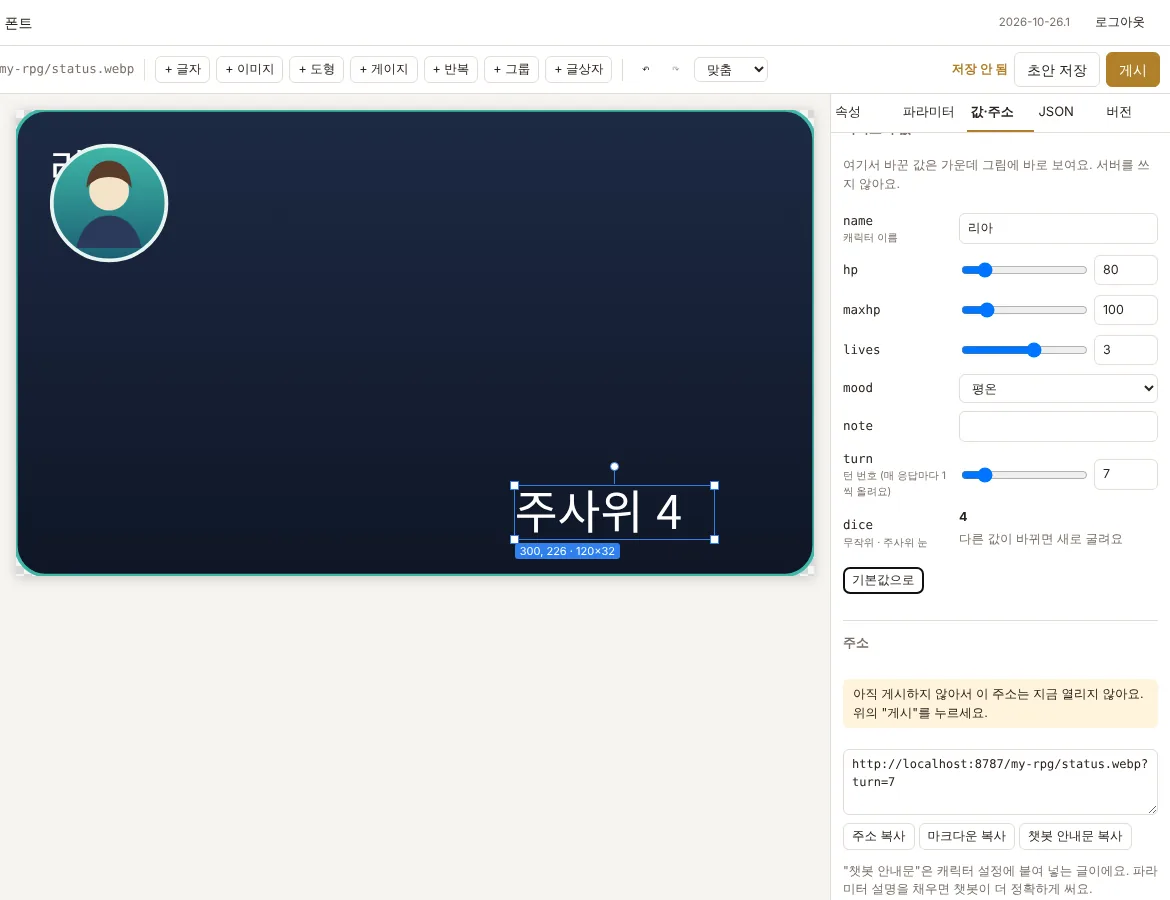
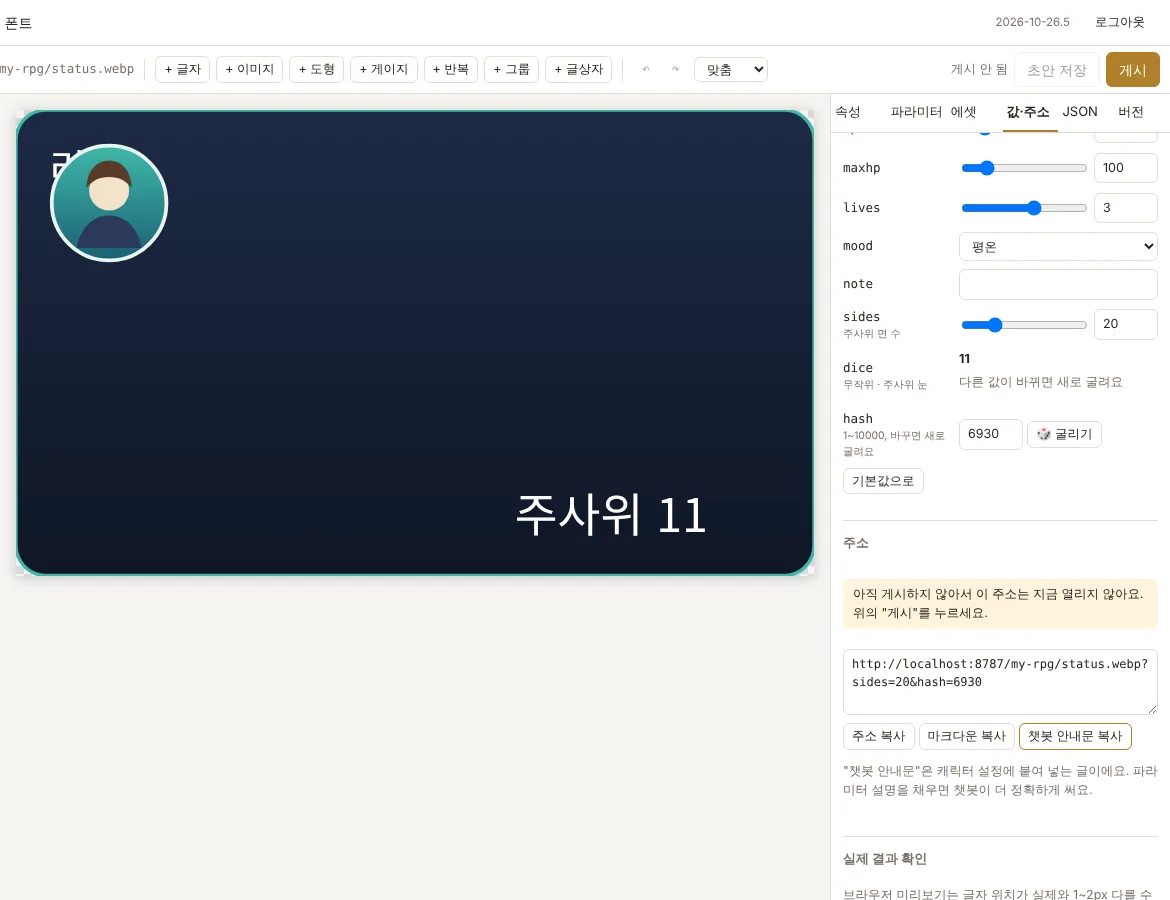
Random params: range from a number param, and an address hash for fresh rolls (#12)
- A random param's min/max may name a number param (e.g. sides=20 rolls 1..20).
- Templates with a random param take `hash=1..10000` in the address; it is
  mixed into every roll and kept in the normalized string (storage key).
  A missing or out-of-range hash is left out; other templates ignore it.
- Chatbot instructions add a `hash` line (a different number every reply);
  the 값·주소 tab gets a hash field with a 🎲 button; param rename/usage
  checks follow dice bounds.
- Tests, tutorial, admin docs and README updated.

Claude-Session: https://claude.ai/code/session_011e7i7uxX8Q6QpFWp4vtuYR

diff --git a/ui/editor/preview-panel.tsx b/ui/editor/preview-panel.tsx
@@ -1,9 +1,12 @@
 import { useState } from 'preact/hooks';
-import { normalizeParams } from '../../src/params';
+import { HASH_KEY, HASH_MAX, normalizeParams } from '../../src/params';
 import { LIMITS, type Spec } from '../../src/spec';
 import { call, copy } from '../api';
 import { defaultsOf } from '../model';
 import { Modal, fail, toast } from '../ui';
+
+/** templates with a random param also take `hash=1..10000` in the address, mixed into every roll */
+export const takesHash = (spec: Spec) => !(HASH_KEY in spec.params) && Object.values(spec.params).some((d) => d.type === 'random');
 
 /** Encode only what would break a query value; Korean stays readable for people and chatbots. */
 export const enc = (s: string) => s.replace(/[\s%&#?+=\/\\"'<>()[\]]/g, (c) => encodeURIComponent(c).replace(/[()'[\]]/g, (x) => '%' + x.charCodeAt(0).toString(16).toUpperCase()));
@@ -16,7 +19,10 @@ export function imageUrl(chat: string, slug: string, spec: Spec, values: Record<
     .filter(([k, v]) => !onlyChanged || v !== defs[k])
     .map(([k, v]) => `${k}=${enc(typeof v === 'boolean' ? (v ? '1' : '0') : String(v))}`)
     .join('&');
-  return `${location.origin}/${chat}/${slug}.webp${q ? '?' + q : ''}`;
+  const h = Math.round(Number(values[HASH_KEY]));
+  const hq = takesHash(spec) && h >= 1 && h <= HASH_MAX ? `${HASH_KEY}=${h}` : '';
+  const all = [q, hq].filter(Boolean).join('&');
+  return `${location.origin}/${chat}/${slug}.webp${all ? '?' + all : ''}`;
 }
 
 /** Chatbot instructions generated from the parameter definitions. */
@@ -36,8 +42,9 @@ export function promptSnippet(chat: string, slug: string, name: string, spec: Sp
   return [
     `[${name} 이미지]`,
     `매 답변 끝에 현재 상태를 아래 형식의 이미지 한 줄로 출력하세요. 주소는 바꾸지 말고 ? 뒤의 값만 채웁니다.`,
-    `![](${base}?${sent.map(([k]) => `${k}=값`).join('&')})`,
+    `![](${base}?${[...sent.map(([k]) => `${k}=값`), ...(takesHash(spec) ? [`${HASH_KEY}=숫자`] : [])].join('&')})`,
     ...lines,
+    ...(takesHash(spec) ? [`- ${HASH_KEY}: 1~${HASH_MAX} 사이 아무 숫자. 매 답변마다 다른 숫자를 넣으세요(주사위를 새로 굴려요). 결과는 이미지가 정하니 미리 짐작해서 쓰지 마세요.`] : []),
     `값을 모르면 그 항목은 빼도 됩니다(기본값으로 그려짐). 글자 값의 공백은 %20으로 씁니다.`,
     `예시: ![](${example})`,
   ].join('\n');
@@ -120,6 +127,20 @@ export function PreviewPanel(p: {
           <ValueInput name={k} def={d} value={p.values[k] ?? ''} onChange={(v) => p.setValues({ ...p.values, [k]: v })} />
         </label>
         ),
+      )}
+      {takesHash(p.spec) && (
+        <label class="value">
+          <span class="mono">
+            {HASH_KEY}
+            <small> 1~{HASH_MAX}, 바꾸면 새로 굴려요</small>
+          </span>
+          <span class="with-btn">
+            <input type="number" class="num" min={1} max={HASH_MAX} value={p.values[HASH_KEY] ?? ''} placeholder="없음" onInput={(e) => p.setValues({ ...p.values, [HASH_KEY]: e.currentTarget.value })} />
+            <button class="small" onClick={() => p.setValues({ ...p.values, [HASH_KEY]: String(1 + Math.floor(Math.random() * HASH_MAX)) })}>
+              🎲 굴리기
+            </button>
+          </span>
+        </label>
       )}
       <button class="small" onClick={() => p.setValues(defaultsOf(p.spec))}>
         기본값으로

diff --git a/ui/editor/params.tsx b/ui/editor/params.tsx
@@ -4,6 +4,25 @@ import { renameParam, usesParam } from '../model';
 import { NumInput } from './fields';
 
 const NAME = /^[A-Za-z_][A-Za-z0-9_]{0,31}$/;
+
+/** a dice bound: a whole number, or a number param the chatbot sends (e.g. sides=20) */
+function Bound(p: { value: number | string | undefined; fallback: number; spec: Spec; onChange: (v: number | string | undefined) => void }) {
+  const nums = Object.keys(p.spec.params).filter((k) => p.spec.params[k].type === 'number');
+  const isParam = typeof p.value === 'string';
+  return (
+    <span class="with-btn">
+      <select style={{ flex: isParam ? '1' : '0 0 8em' }} value={isParam ? String(p.value) : ''} onChange={(e) => p.onChange(e.currentTarget.value || p.fallback)}>
+        <option value="">직접 입력</option>
+        {nums.map((k) => (
+          <option key={k} value={k}>
+            파라미터 {k}
+          </option>
+        ))}
+      </select>
+      {!isParam && <NumInput value={p.value} onChange={(v) => p.onChange(v)} step={1} />}
+    </span>
+  );
+}
 const TYPE_LABEL = { text: '글자', number: '숫자', enum: '목록에서 하나', bool: '예/아니오', random: '무작위 (주사위)' } as const;
 
 /** Comma-separated list, applied when the field loses focus. Keeps what was typed across re-renders until then. */
@@ -125,13 +144,13 @@ function ParamCard(p: { name: string; def: ParamDef; spec: Spec; onSpec: (s: Spe
               </label>
             ) : (
               <>
-                <label>
+                <label class="span2">
                   최소
-                  <NumInput value={d.min} onChange={(v) => set({ min: v })} step={1} />
+                  <Bound value={d.min} fallback={1} spec={p.spec} onChange={(v) => set({ min: v })} />
                 </label>
-                <label>
+                <label class="span2">
                   최대
-                  <NumInput value={d.max} onChange={(v) => set({ max: v })} step={1} />
+                  <Bound value={d.max} fallback={6} spec={p.spec} onChange={(v) => set({ max: v })} />
                 </label>
               </>
             )}
@@ -146,7 +165,8 @@ function ParamCard(p: { name: string; def: ParamDef; spec: Spec; onSpec: (s: Spe
       </div>
       {d.type === 'random' && (
         <p class="hint">
-          챗봇이 보내는 값이 아니라 판박이가 굴려요. 주소의 다른 값으로 굴려서 같은 주소는 늘 같은 결과이고, 값이 하나라도 바뀌면 새로 굴려요. 매 턴 새로 굴리려면 턴 번호 같은 숫자 파라미터를 하나 두세요.
+          챗봇이 보내는 값이 아니라 판박이가 굴려요(주소에 이 이름으로 값을 보내도 무시해요). 주소의 다른 값으로 굴려서 같은 주소는 늘 같은 결과이고, 값이 하나라도 바뀌면 새로 굴려요.
+          챗봇 안내문에는 <code>hash</code>(1~10000)가 함께 들어가요. 챗봇이 매 답변 다른 숫자를 넣으면 매번 새로 굴려요. 최소·최대는 숫자 파라미터로 정할 수도 있어요(예: <code>sides=20</code>이면 1~20).
           글자에 <code>{'{' + p.name + '}'}</code>로 넣거나, 이미지·색의 "값에 따라"에서 골라 써요.
         </p>
       )}

diff --git a/src/params.ts b/src/params.ts
@@ -53,11 +53,18 @@ function hash32(s: string): number {
   return (t ^ (t >>> 14)) >>> 0;
 }
 
+/** The address may carry `hash=1..10000`: one more number mixed into every roll, so a chatbot can ask for a fresh roll without any other value changing. */
+export const HASH_KEY = 'hash';
+export const HASH_MAX = 10000;
+
 /** A random param's value: decided by its name and the other values, so one address always gets the same roll. */
-export function rollRandom(name: string, def: Extract<ParamDef, { type: 'random' }>, seed: string): string | number {
+export function rollRandom(name: string, def: Extract<ParamDef, { type: 'random' }>, seed: string, values: Values = {}): string | number {
   const r = hash32(name + '|' + seed);
   if (def.options?.length) return def.options[r % def.options.length];
-  const lo = Math.round(def.min ?? 1), hi = Math.max(lo, Math.round(def.max ?? 6));
+  // a bound may name a number param (already normalized in `values`)
+  const bound = (v: number | string | undefined, d: number) => Math.round(typeof v === 'string' ? Number(values[v] ?? d) || 0 : (v ?? d));
+  const lo = bound(def.min, 1);
+  const hi = Math.min(lo + 1e6, Math.max(lo, bound(def.max, 6)));
   return lo + (r % (hi - lo + 1));
 }
 
@@ -86,8 +93,15 @@ export function normalizeParams(spec: Spec, query: URLSearchParams | Record<stri
     values[k] = v;
     parts.push(`${k}=${encodeURIComponent(String(v))}`);
   }
+  const randoms = Object.entries(spec.params).filter(([, d]) => d.type === 'random');
+  // the built-in hash (unless the template has its own param by that name) only matters when something is rolled
+  if (randoms.length && !(HASH_KEY in spec.params)) {
+    const raw = entries.find(([k]) => k.toLowerCase() === HASH_KEY)?.[1];
+    const n = raw === undefined ? NaN : Math.round(Number(raw));
+    if (n >= 1 && n <= HASH_MAX) parts.push(`${HASH_KEY}=${n}`);
+  }
   const seed = parts.join('&');
-  for (const [k, def] of Object.entries(spec.params)) if (def.type === 'random') values[k] = rollRandom(k, def, seed);
+  for (const [k, def] of randoms) if (def.type === 'random') values[k] = rollRandom(k, def, seed, values);
   // the rolls follow from the other values, so the storage key needs only those
   return { values, normalized: seed };
 }

diff --git a/src/spec.ts b/src/spec.ts
@@ -19,8 +19,9 @@ export type ParamDef =
   | { type: 'number'; default?: number; min?: number; max?: number; decimals?: number; alias?: string[]; desc?: string }
   | { type: 'enum'; options: string[]; default?: string; alias?: string[]; desc?: string }
   | { type: 'bool'; default?: boolean; alias?: string[]; desc?: string }
-  // Not read from the address: rolled from the template's other values, so the same address always draws the same result.
-  | { type: 'random'; min?: number; max?: number; options?: string[]; alias?: string[]; desc?: string };
+  // Not read from the address: rolled from the template's other values (and the address's `hash`), so the same address always draws the same result.
+  // min/max may name a number param, so the chatbot can set the range (e.g. a d20) without choosing the roll.
+  | { type: 'random'; min?: number | string; max?: number | string; options?: string[]; alias?: string[]; desc?: string };
 // `desc` (and an element's `name`) are only for people: the admin UI shows them and puts `desc` in the chatbot prompt.
 
 export interface Base {
@@ -139,7 +140,10 @@ export function validateSpec(spec: any): string[] {
       if (d?.type === 'random' && d.options !== undefined && (!Array.isArray(d.options) || !d.options.length)) errs.push(`param "${k}": random options must be a non-empty list`);
       if (d?.type === 'random' && d.options === undefined) {
         const lo = d.min ?? 1, hi = d.max ?? 6;
-        if (!Number.isInteger(lo) || !Number.isInteger(hi) || lo > hi || hi - lo > 1e6) errs.push(`param "${k}": random needs whole numbers min <= max`);
+        const ref = (v: unknown) => typeof v === 'string' && spec.params[v]?.type === 'number';
+        if (typeof lo === 'string' || typeof hi === 'string') {
+          if ((typeof lo === 'string' && !ref(lo)) || (typeof hi === 'string' && !ref(hi))) errs.push(`param "${k}": random min/max must be a number or a number param`);
+        } else if (!Number.isInteger(lo) || !Number.isInteger(hi) || lo > hi || hi - lo > 1e6) errs.push(`param "${k}": random needs whole numbers min <= max`);
       }
     }
   }

diff --git a/test/engine.test.ts b/test/engine.test.ts
@@ -43,6 +43,32 @@ describe('normalizeParams', () => {
     expect(validateSpec(spec)).toEqual([]);
     expect(validateSpec({ ...spec, params: { d: { type: 'random', min: 6, max: 1 } } })).not.toEqual([]);
   });
+  it('random range can come from a number param, and hash=1..10000 mixes into the roll', () => {
+    const spec: Spec = {
+      canvas: { w: 10, h: 10 },
+      params: { sides: { type: 'number', default: 6, min: 2, max: 100 }, dice: { type: 'random', min: 1, max: 'sides' } },
+      elements: [],
+    };
+    expect(validateSpec(spec)).toEqual([]);
+    expect(validateSpec({ ...spec, params: { dice: { type: 'random', max: 'nope' } } })).not.toEqual([]);
+    const seen = new Set<number>();
+    for (let h = 1; h <= 400; h++) {
+      const r = normalizeParams(spec, { sides: '20', hash: String(h) });
+      expect(r.normalized).toBe(`sides=20&hash=${h}`);
+      const d = r.values.dice as number;
+      expect(d).toBeGreaterThanOrEqual(1);
+      expect(d).toBeLessThanOrEqual(20);
+      seen.add(d);
+    }
+    expect(seen.size).toBe(20);
+    // same address, same roll; a bad hash is left out like a missing one
+    expect(normalizeParams(spec, { hash: '77' }).values).toEqual(normalizeParams(spec, { hash: '77' }).values);
+    expect(normalizeParams(spec, { hash: '0' }).normalized).toBe('sides=6');
+    expect(normalizeParams(spec, { hash: '10001' }).normalized).toBe('sides=6');
+    // templates without random params ignore it (the stored image stays the same)
+    const plain: Spec = { canvas: { w: 10, h: 10 }, params: { a: { type: 'number' } }, elements: [] };
+    expect(normalizeParams(plain, { a: '1', hash: '5' }).normalized).toBe('a=1');
+  });
   it('random values drive any element: picked colors, ranges, conditions, gauges, repeats', () => {
     const spec: Spec = {
       canvas: { w: 100, h: 100 },

diff --git a/ui/model.ts b/ui/model.ts
@@ -246,7 +246,11 @@ export function parentOffset(spec: Spec, path: Path): { x: number; y: number } {
 export function renameParam(spec: Spec, from: string, to: string): Spec {
   const s = clone(spec);
   const params: any = {};
-  for (const [k, v] of Object.entries(s.params)) params[k === from ? to : k] = v;
+  for (const [k, v] of Object.entries(s.params)) {
+    // a dice bound can name a number param
+    if (v.type === 'random') for (const b of ['min', 'max'] as const) if (v[b] === from) v[b] = to;
+    params[k === from ? to : k] = v;
+  }
   s.params = params;
   const re = new RegExp(`\\{(\\s*)${from.replace(/[.*+?^${}()|[\]\\]/g, '\\$&')}(\\s*)(?=[|}])`, 'g');
   const fix = (v: any, key?: string): any => {
@@ -270,7 +274,8 @@ export function renameParam(spec: Spec, from: string, to: string): Spec {
 export function usesParam(spec: Spec, name: string): boolean {
   const re = new RegExp(`\\{\\s*${name.replace(/[.*+?^${}()|[\]\\]/g, '\\$&')}\\s*[|}]`);
   const json = JSON.stringify(spec.elements);
-  return re.test(json) || json.includes(`":"${name}"`);
+  const bound = Object.values(spec.params).some((d) => d.type === 'random' && (d.min === name || d.max === name));
+  return bound || re.test(json) || json.includes(`":"${name}"`);
 }
 
 export function defaultsOf(spec: Spec): Record<string, string> {

diff --git a/ui/editor/fields.tsx b/ui/editor/fields.tsx
@@ -14,6 +14,7 @@ const choicesOf = (d: ParamDef | undefined): string[] => {
   if (d?.type === 'random') {
     if (d.options) return d.options;
     const lo = d.min ?? 1, hi = d.max ?? 6;
+    if (typeof lo !== 'number' || typeof hi !== 'number') return []; // range set by a param
     return hi - lo < 50 ? Array.from({ length: hi - lo + 1 }, (_, i) => String(lo + i)) : [];
   }
   return [];

diff --git a/ui/version.ts b/ui/version.ts
@@ -1,3 +1,3 @@
 // Shown in the header and on the login screen so you can tell which admin UI is deployed.
 // Bump it with every change to the UI.
-export const UI_VERSION = '2026-10-26.4';
+export const UI_VERSION = '2026-10-26.5';

diff --git a/docs/템플릿-만들기.md b/docs/템플릿-만들기.md
@@ -278,23 +278,23 @@
 
 챗봇이 "주사위를 굴렸더니 6!"이라고 직접 정하면, 결과를 먼저 생각하고 숫자를 고르기 쉬워요. **무작위** 파라미터는 숫자를 판박이가 굴려요.
 
-1. 파라미터 탭에서 `turn`을 **숫자**로 만들고 설명을 `턴 번호 (매 응답마다 1씩 올려요)`로 적어요.
-2. `dice`를 만들고 종류를 **무작위 (주사위)**로 바꿔요. 굴리는 방식은 **숫자 범위**, 최소 1, 최대 6.
-3. **+ 글자**로 내용 `주사위 {dice}`를 넣어요.
+1. 파라미터 탭에서 `dice`를 만들고 종류를 **무작위 (주사위)**로 바꿔요. 굴리는 방식은 **숫자 범위**, 최소 1, 최대 6.
+2. **+ 글자**로 내용 `주사위 {dice}`를 넣어요.
+3. (선택) 면 수를 챗봇이 정하게 하려면 `sides`를 **숫자**로 만들고(예: 2~100, 기본 6), `dice`의 최대를 **파라미터 sides**로 바꿔요. 챗봇이 `sides=20`을 보내면 1~20에서 굴려요.
 
 ![무작위 파라미터](images/tutorial/24-random-param.webp)
 
 ![미리보기에서 굴린 값](images/tutorial/25-random-preview.webp)
 
 - 챗봇이 주소에 `dice=6`처럼 값을 붙여도 **무시돼요**. 결과는 늘 판박이가 굴린 값이에요. 그래서 챗봇이 결과를 미리 정할 수 없어요.
-- 무작위 값은 주소에 넣지 않아요. 주소의 다른 값들로 굴리기 때문에 **같은 주소는 늘 같은 결과**예요. 다시 열어도, 다른 사람이 봐도 같아요.
-- 값이 하나라도 바뀌면 새로 굴려요. 그래서 `turn`처럼 매번 바뀌는 숫자를 하나 두면 턴마다 새 결과가 나와요.
+- 판박이는 주소의 다른 값들과 **`hash`**(1~10000) 숫자를 섞어서 굴려요. 그래서 **같은 주소는 늘 같은 결과**예요. 다시 열어도, 다른 사람이 봐도 같아요.
+- 무작위 파라미터가 있으면 **챗봇 안내문**에 `hash=숫자` 줄이 자동으로 들어가요. 챗봇이 매 답변 다른 숫자를 넣으면 매번 새로 굴려요. 챗봇은 어떤 숫자에서 몇이 나올지 알 수 없어요.
+- 값·주소 탭의 `hash` 칸에서 **🎲 굴리기**를 누르면 미리보기에서 새로 굴려 볼 수 있어요.
 - 글자뿐 아니라 다른 파라미터를 쓰는 곳이면 어디든 쓸 수 있어요.
   - **값에 따라**: 눈마다 다른 그림이나 색을 고를 수 있어요. 숫자 범위면 **숫자 구간에 따라**로 "4 이상이면 초록"처럼도 정할 수 있어요.
   - **보이는 조건**: `dice` `=` `6`일 때만 "대성공!"을 보이게 할 수 있어요.
   - **게이지 값**과 **반복 개수**: 주사위 눈만큼 게이지를 채우거나 하트를 반복해서 그릴 수 있어요.
 - **목록에서 하나 뽑기**를 고르면 `대길, 길, 흉`처럼 적어 둔 값 중 하나를 뽑아요. 뽑은 값은 "값에 따라"에서도 쓸 수 있어서, 결과마다 다른 그림이나 색을 고를 수 있어요.
-- 값·주소 탭에서 다른 값을 바꿔 보면 굴린 결과가 어떻게 바뀌는지 바로 보여요.
 
 ## 자주 막히는 곳
 

diff --git a/docs/관리-화면.md b/docs/관리-화면.md
@@ -94,7 +94,7 @@ npx wrangler secret put ADMIN_PATH
     **보이는 조건**으로 "a1이 none이 아닐 때만 보이기" 같은 것도 정해요.
   - **파라미터**: 주소로 받을 값(이름, 종류, 기본값, 범위, 설명)을 정해요. 이름을 바꾸면 요소에서 쓰던 곳도 같이 바뀌어요.
     **설명**을 채우면 챗봇 안내문에 들어가서 챗봇이 더 정확하게 써요.
-    종류를 **무작위 (주사위)**로 하면 챗봇이 값을 보내지 않고 판박이가 굴려요(숫자 범위, 또는 적어 둔 목록에서 하나). 주소의 다른 값으로 굴리기 때문에 같은 주소는 늘 같은 결과이고, 값이 하나라도 바뀌면 새로 굴려요. 턴마다 새로 굴리려면 턴 번호 같은 숫자 파라미터를 하나 두세요.
+    종류를 **무작위 (주사위)**로 하면 챗봇이 값을 보내지 않고 판박이가 굴려요(숫자 범위, 또는 적어 둔 목록에서 하나). 주소의 다른 값으로 굴리기 때문에 같은 주소는 늘 같은 결과이고, 값이 하나라도 바뀌면 새로 굴려요. 주소에 `hash=1~10000` 숫자를 붙이면 그 숫자도 섞어서 굴려요. 무작위 파라미터가 있으면 챗봇 안내문에 `hash` 줄이 자동으로 들어가서, 챗봇이 매 답변 다른 숫자를 넣으면 매번 새로 굴려요. 최소·최대는 숫자 파라미터로 정할 수도 있어요(예: `sides=20`이면 1~20).
   - **에셋**: 이 템플릿에 불러온 그림(별명 → 파일)과 폰트를 한곳에서 관리해요. 그림과 폰트 모두 **불러오기**로 가져오고, 다른 것으로 바꿔 교체하고, ✕로 빼요(에셋·폰트 메뉴의 파일은 그대로). 이미지와 글자 요소는 여기에 불러온 것 중에서만 골라요(기본 폰트는 늘 쓸 수 있어요). 폰트를 빼면 그 폰트를 쓰던 글자는 기본 폰트로 그려요.
   - **값·주소**: 미리보기 값을 바꿔 보고, 그 값으로 만든 이미지 주소·마크다운·**챗봇 안내문**을 복사해요. "서버로 렌더"는 실제 PNG를 만들어 보여 줘요(저장 안 함).
   - **JSON**: 템플릿 규칙 전체예요. 복사·붙여넣기나 고급 수정에 써요.
